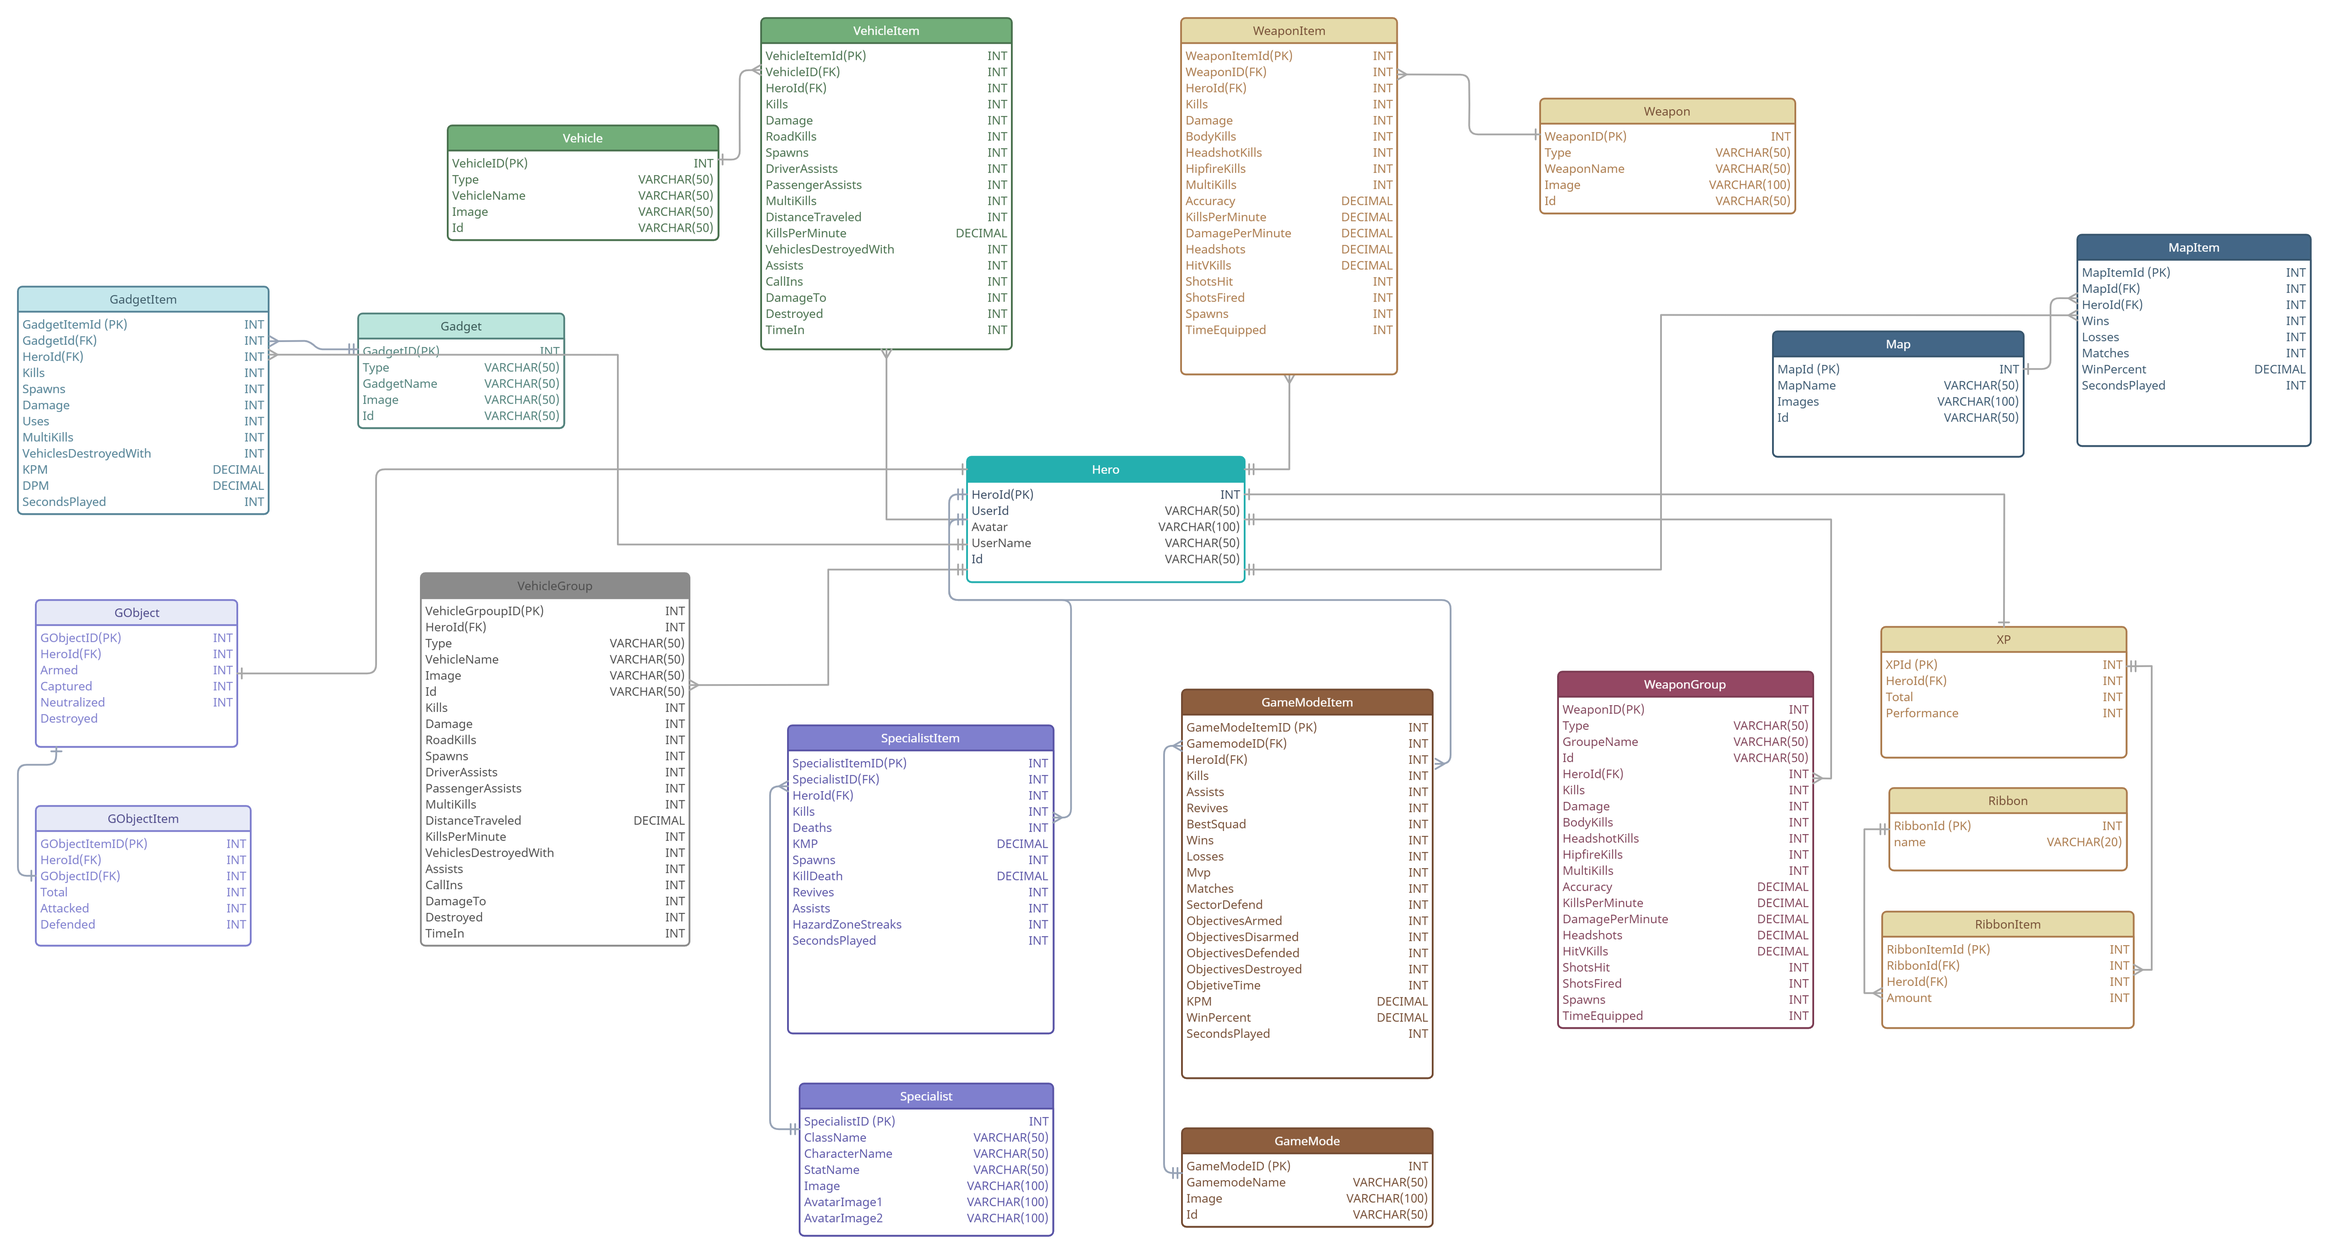
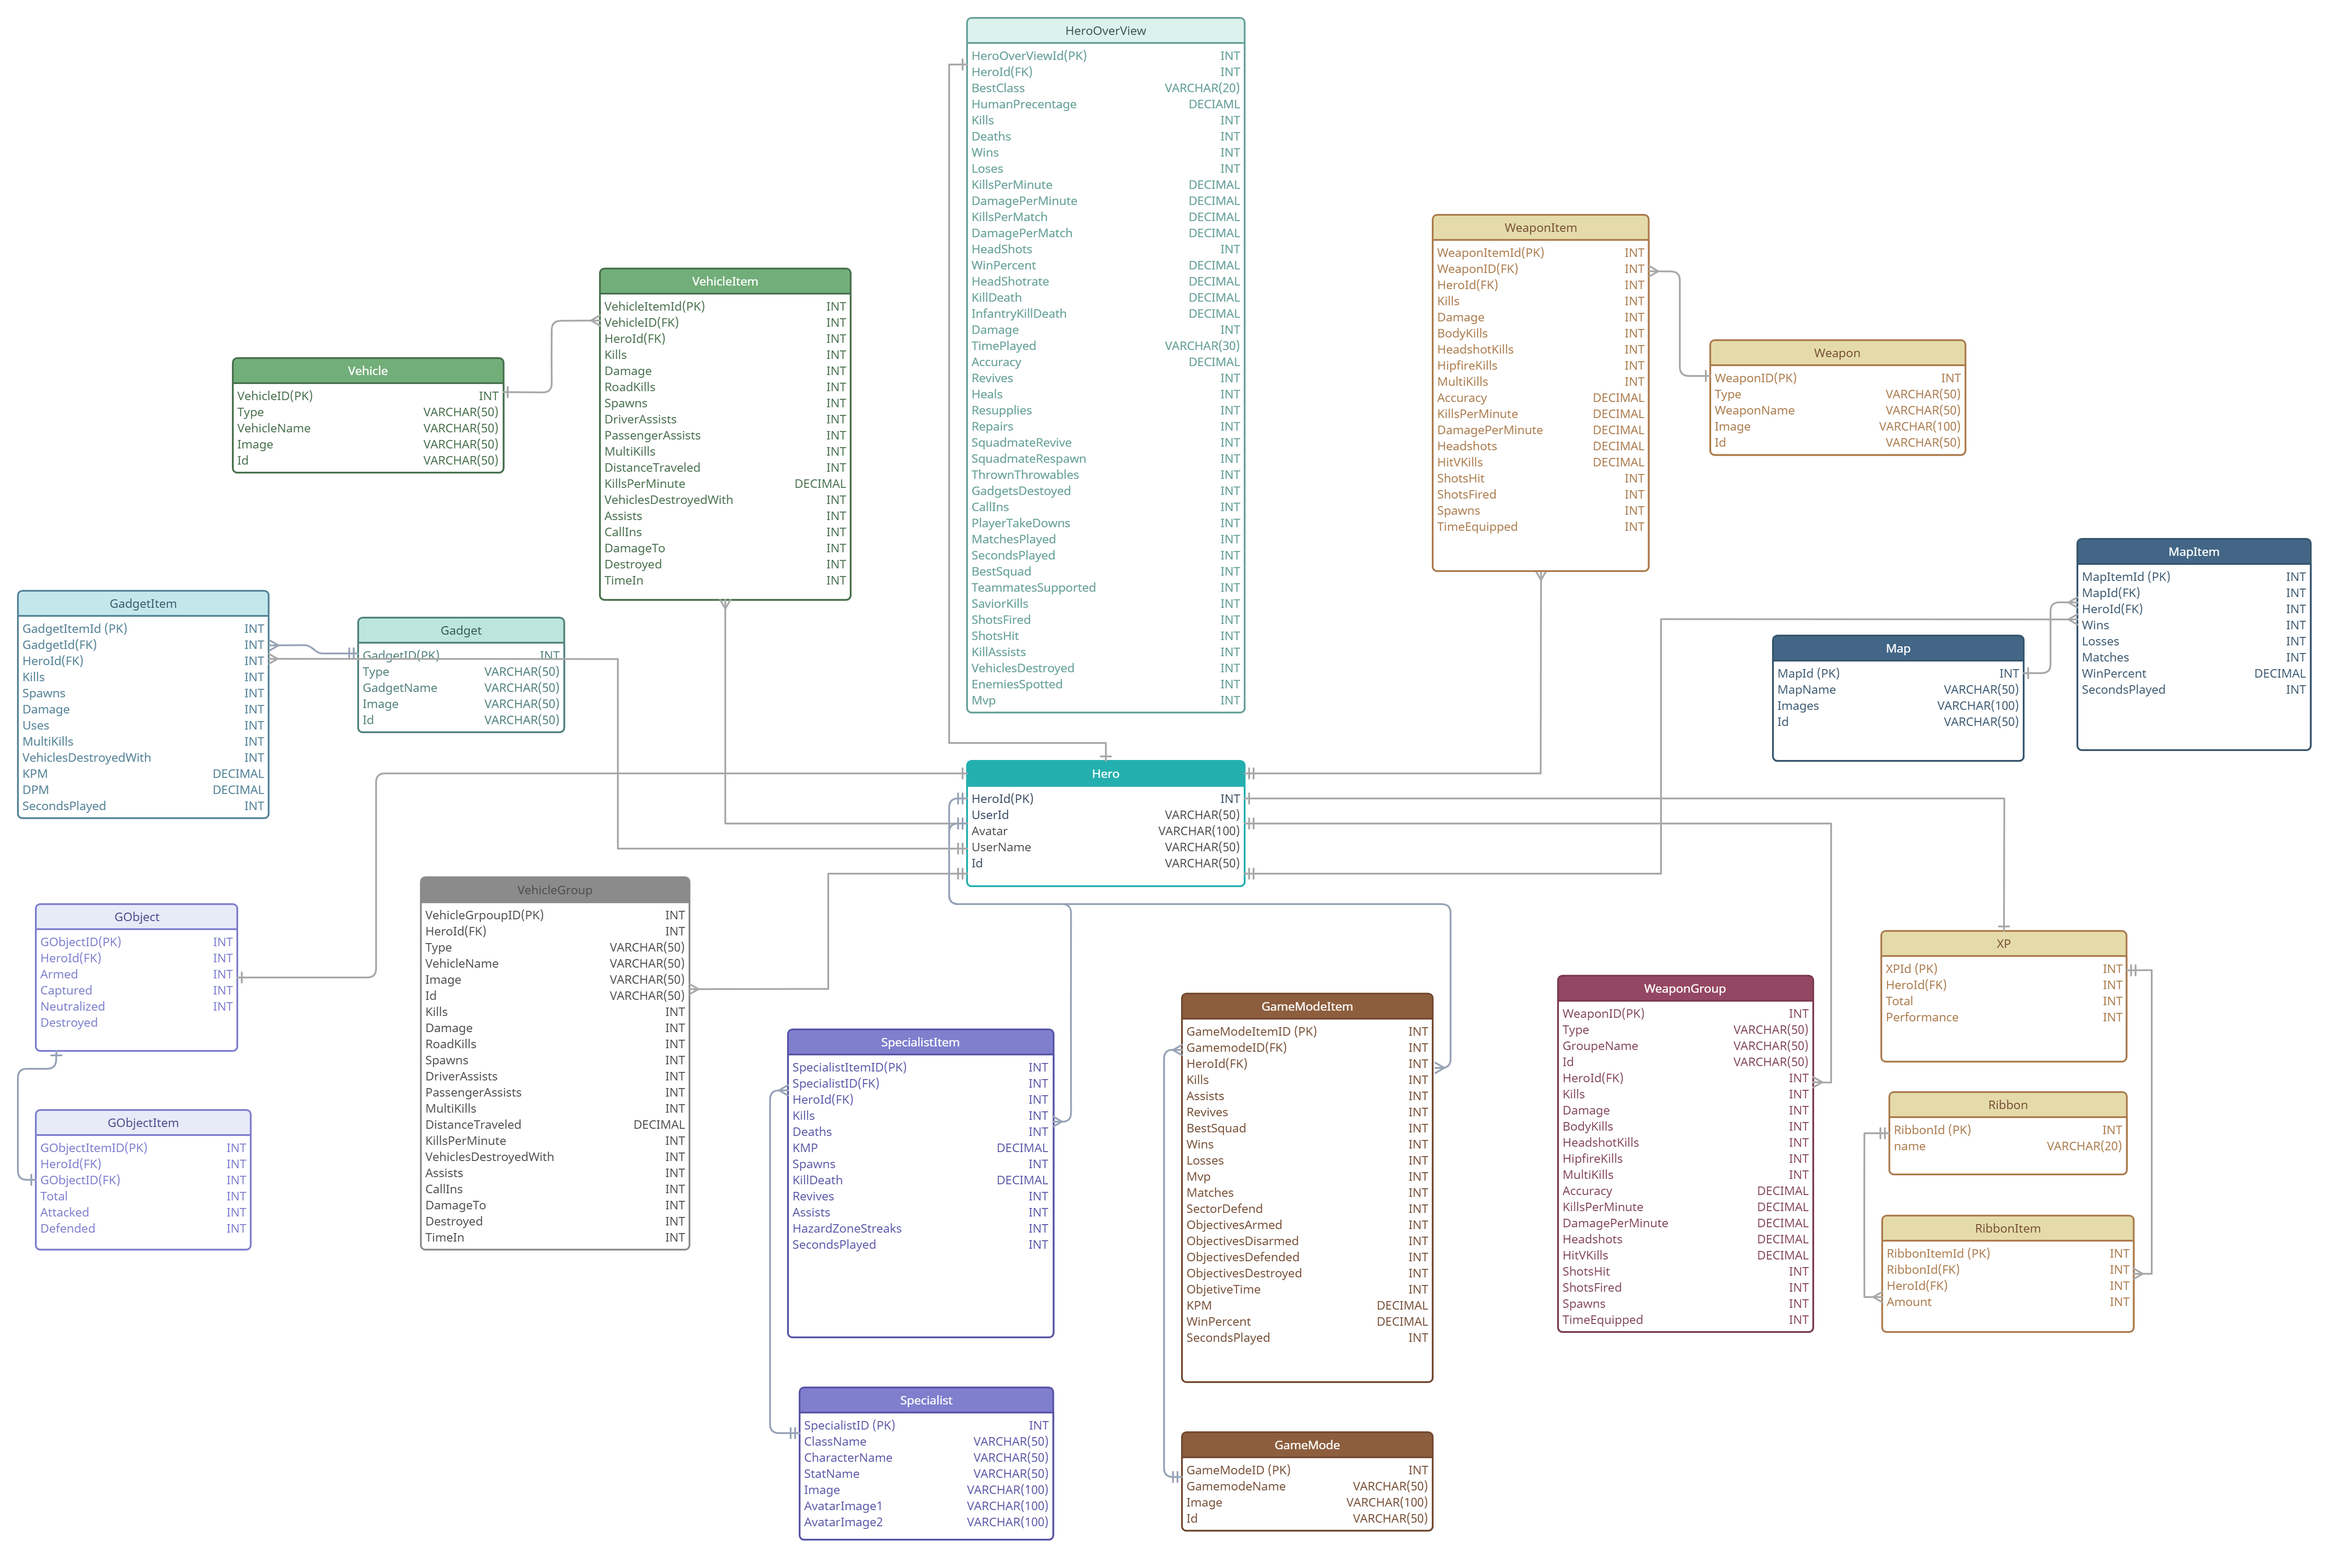
Add HeroOverView table

diff --git a/GAMEDATAHUB/HeroOverView.cs b/GAMEDATAHUB/HeroOverView.cs
@@ -1,0 +1,61 @@
+//------------------------------------------------------------------------------
+// <auto-generated>
+//     This code was generated from a template.
+//
+//     Manual changes to this file may cause unexpected behavior in your application.
+//     Manual changes to this file will be overwritten if the code is regenerated.
+// </auto-generated>
+//------------------------------------------------------------------------------
+
+namespace GAMEDATAHUB
+{
+    using System;
+    using System.Collections.Generic;
+    
+    public partial class HeroOverView
+    {
+        public int HeroOverViewId { get; set; }
+        public Nullable<int> HeroId { get; set; }
+        public string BestClass { get; set; }
+        public Nullable<decimal> HumanPercentage { get; set; }
+        public Nullable<int> Kills { get; set; }
+        public Nullable<int> Deaths { get; set; }
+        public Nullable<int> Wins { get; set; }
+        public Nullable<int> Losses { get; set; }
+        public Nullable<decimal> KillsPerMinute { get; set; }
+        public Nullable<decimal> DamagePerMinute { get; set; }
+        public Nullable<decimal> KillsPerMatch { get; set; }
+        public Nullable<decimal> DamagePerMatch { get; set; }
+        public Nullable<int> HeadShots { get; set; }
+        public Nullable<decimal> WinPercent { get; set; }
+        public Nullable<decimal> HeadShotrate { get; set; }
+        public Nullable<decimal> KillDeath { get; set; }
+        public Nullable<decimal> InfantryKillDeath { get; set; }
+        public Nullable<int> Damage { get; set; }
+        public string TimePlayed { get; set; }
+        public Nullable<decimal> Accuracy { get; set; }
+        public Nullable<int> Revives { get; set; }
+        public Nullable<int> Heals { get; set; }
+        public Nullable<int> Resupplies { get; set; }
+        public Nullable<int> Repairs { get; set; }
+        public Nullable<int> SquadmateRevive { get; set; }
+        public Nullable<int> SquadmateRespawn { get; set; }
+        public Nullable<int> ThrownThrowables { get; set; }
+        public Nullable<int> GadgetsDestoyed { get; set; }
+        public Nullable<int> CallIns { get; set; }
+        public Nullable<int> PlayerTakeDowns { get; set; }
+        public Nullable<int> MatchesPlayed { get; set; }
+        public Nullable<int> SecondsPlayed { get; set; }
+        public Nullable<int> BestSquad { get; set; }
+        public Nullable<int> TeammatesSupported { get; set; }
+        public Nullable<int> SaviorKills { get; set; }
+        public Nullable<int> ShotsFired { get; set; }
+        public Nullable<int> ShotsHit { get; set; }
+        public Nullable<int> KillAssists { get; set; }
+        public Nullable<int> VehiclesDestroyed { get; set; }
+        public Nullable<int> EnemiesSpotted { get; set; }
+        public Nullable<int> Mvp { get; set; }
+    
+        public virtual Hero Hero { get; set; }
+    }
+}

diff --git a/GAMEDATAHUB/Hero.cs b/GAMEDATAHUB/Hero.cs
@@ -28,6 +28,7 @@ namespace GAMEDATAHUB
             this.VehicleGroup = new HashSet<VehicleGroup>();
             this.WeaponGroup = new HashSet<WeaponGroup>();
             this.XP = new HashSet<XP>();
+            this.HeroOverView = new HashSet<HeroOverView>();
         }
     
         public int HeroID { get; set; }
@@ -58,5 +59,7 @@ namespace GAMEDATAHUB
         public virtual ICollection<WeaponGroup> WeaponGroup { get; set; }
         [System.Diagnostics.CodeAnalysis.SuppressMessage("Microsoft.Usage", "CA2227:CollectionPropertiesShouldBeReadOnly")]
         public virtual ICollection<XP> XP { get; set; }
+        [System.Diagnostics.CodeAnalysis.SuppressMessage("Microsoft.Usage", "CA2227:CollectionPropertiesShouldBeReadOnly")]
+        public virtual ICollection<HeroOverView> HeroOverView { get; set; }
     }
 }

diff --git a/GAMEDATAHUB/GDHEntityDbContext.cs b/GAMEDATAHUB/GDHEntityDbContext.cs
@@ -16,6 +16,7 @@ namespace GAMEDATAHUB
         public DbSet<GObject> GObject { get; set; }
         public DbSet<GObjectItem> GObjectItem { get; set; }
         public DbSet<Hero> Hero { get; set; }
+        public DbSet<HeroOverView> HeroOverView { get; set; }
         public DbSet<Map> Map { get; set; }
         public DbSet<MapItem> MapItem { get; set; }
         public DbSet<Ribbon> Ribbon { get; set; }

diff --git a/GAMEDATAHUB/Model1.Context.cs b/GAMEDATAHUB/Model1.Context.cs
@@ -45,5 +45,6 @@ namespace GAMEDATAHUB
         public virtual DbSet<WeaponGroup> WeaponGroup { get; set; }
         public virtual DbSet<WeaponItem> WeaponItem { get; set; }
         public virtual DbSet<XP> XP { get; set; }
+        public virtual DbSet<HeroOverView> HeroOverView { get; set; }
     }
 }
